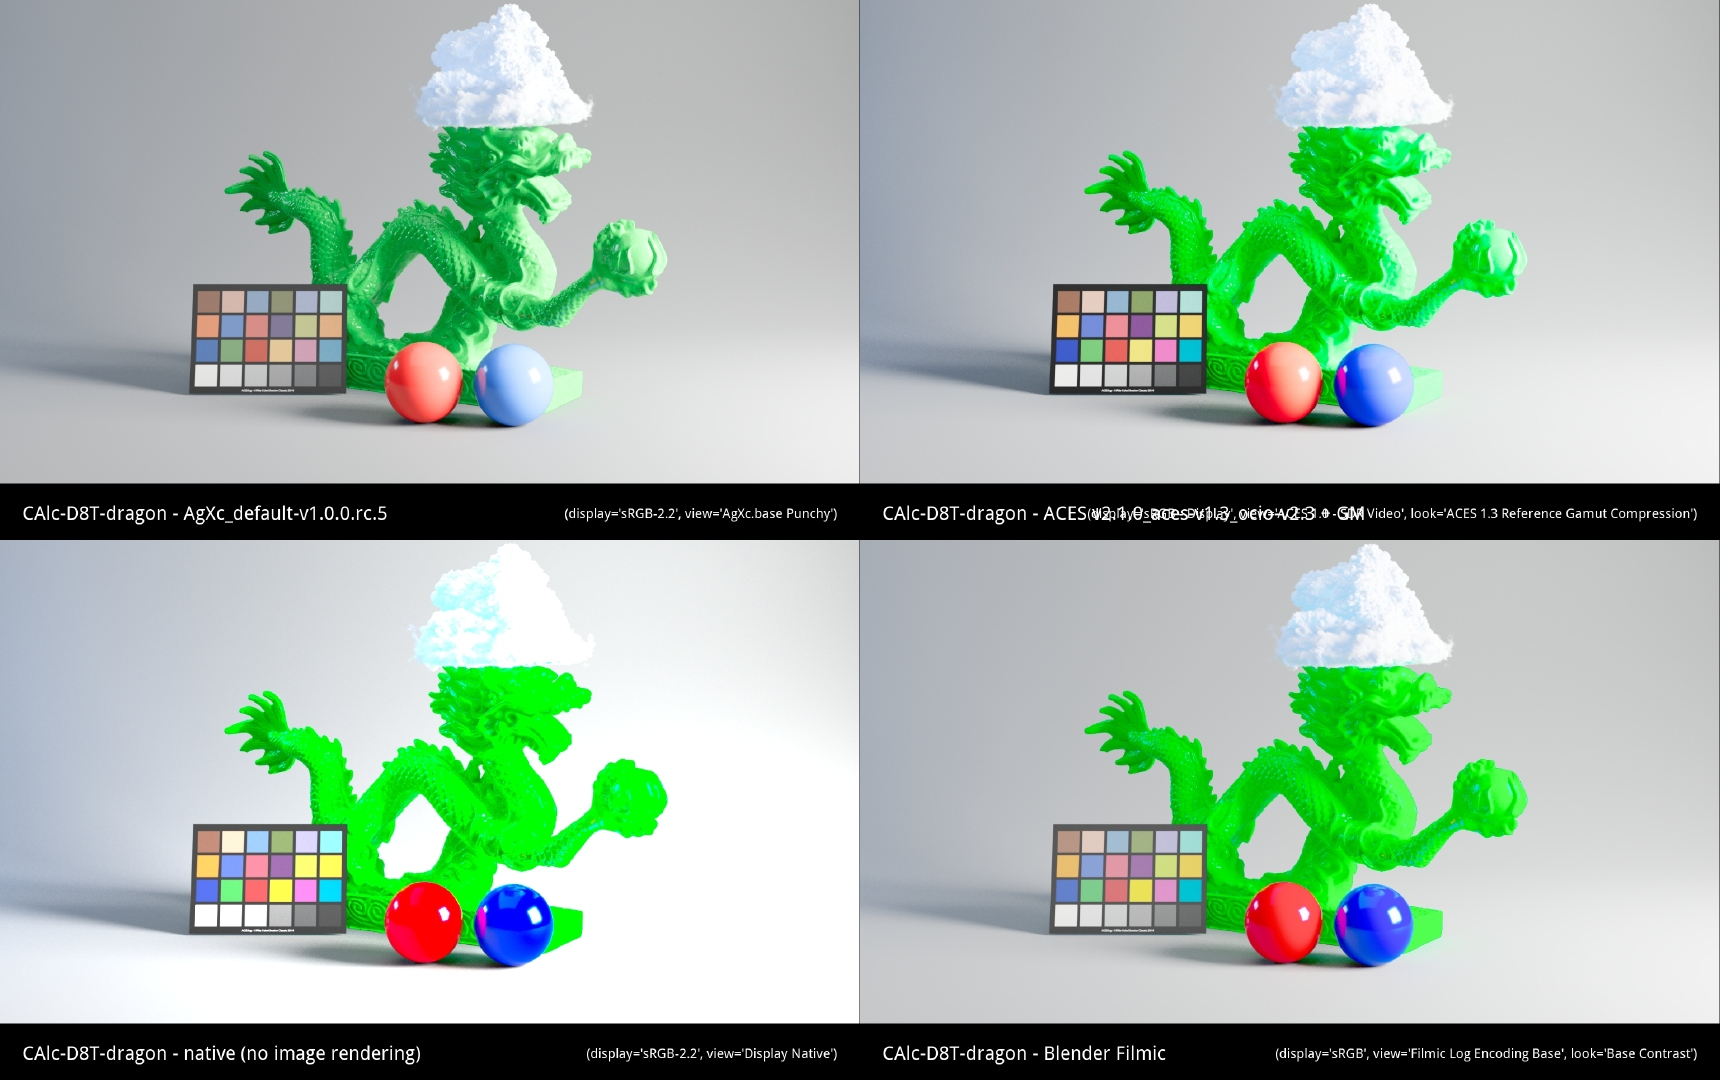
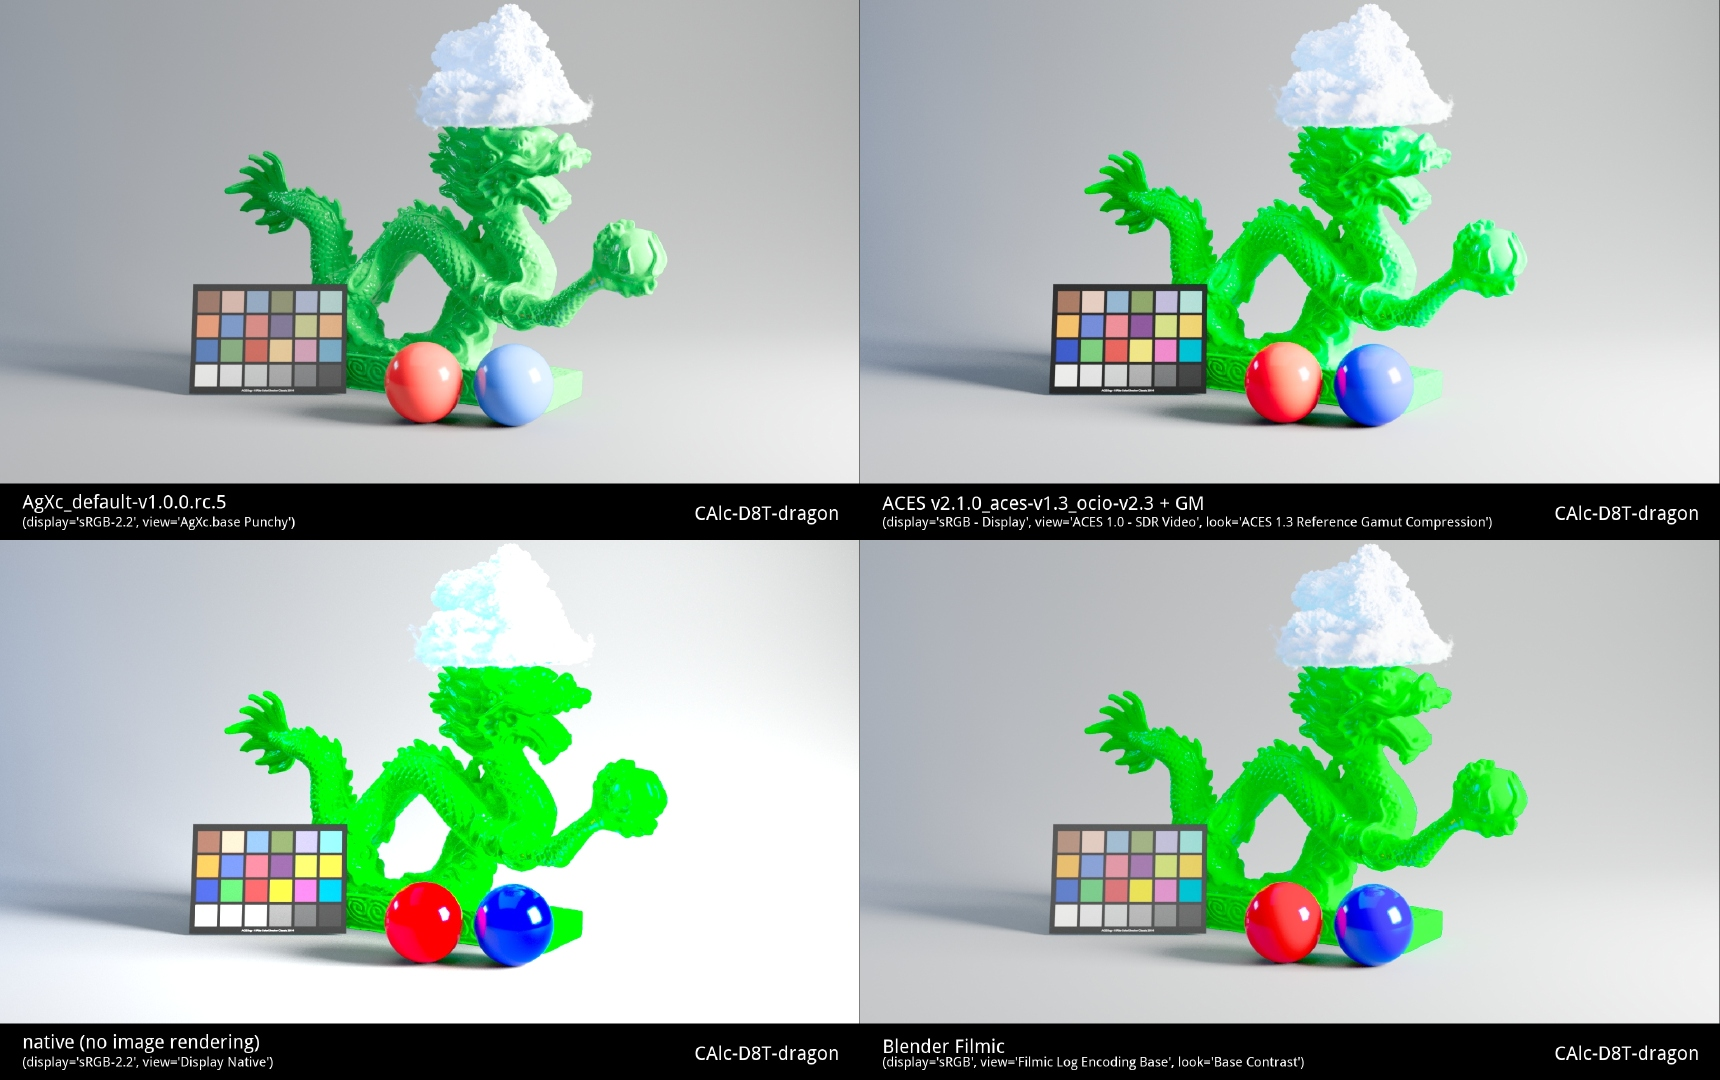
chore(doc-imagegen): improve text position on full images
to avoid overlap on ACES images

diff --git a/.dev/implementations/doc/scripts/doc-imagegen.py b/.dev/implementations/doc/scripts/doc-imagegen.py
@@ -53,7 +53,7 @@ def _oiiotool_export(
 def oiiotool_ocio_render(
     src_path: Path,
     dst_path: Path,
-    text_left: str,
+    text_left: tuple[str, str],
     text_right: str,
     ocio_config: Path,
     ocio_display: str,
@@ -84,9 +84,11 @@ def oiiotool_ocio_render(
         "0x864",
         "--cut",
         "0,0,{TOP.width},{TOP.height+100}",
-        "--text:x=40:y={TOP.height-45}:shadow=0:size=34:color=1,1,1,1:yalign=center",
-        text_left,
-        "--text:x={TOP.width-40}:y={TOP.height-45}:shadow=0:size=24:color=1,1,1,1:yalign=center:xalign=right",
+        "--text:x=40:y={TOP.height-47}:shadow=0:size=34:color=1,1,1,1:yalign=bottom",
+        text_left[0],
+        "--text:x=40:y={TOP.height-42}:shadow=0:size=24:color=1,1,1,1:yalign=top",
+        text_left[1],
+        "--text:x={TOP.width-40}:y={TOP.height-45}:shadow=0:size=34:color=1,1,1,1:yalign=center:xalign=right",
         text_right,
     ]
     return _oiiotool_export(
@@ -240,8 +242,11 @@ class OcioConfigRenderer:
         command = oiiotool_ocio_render(
             src_path=src_path,
             dst_path=dst_path,
-            text_left=f"{src_path.stem} - {self.name}",
-            text_right=f"(display='{self.display}', view='{self.view}'{look_str})",
+            text_left=(
+                f"{self.name}",
+                f"(display='{self.display}', view='{self.view}'{look_str})",
+            ),
+            text_right=f"{src_path.stem}",
             ocio_config=self.config_path,
             ocio_display=self.display,
             ocio_view=self.view,
